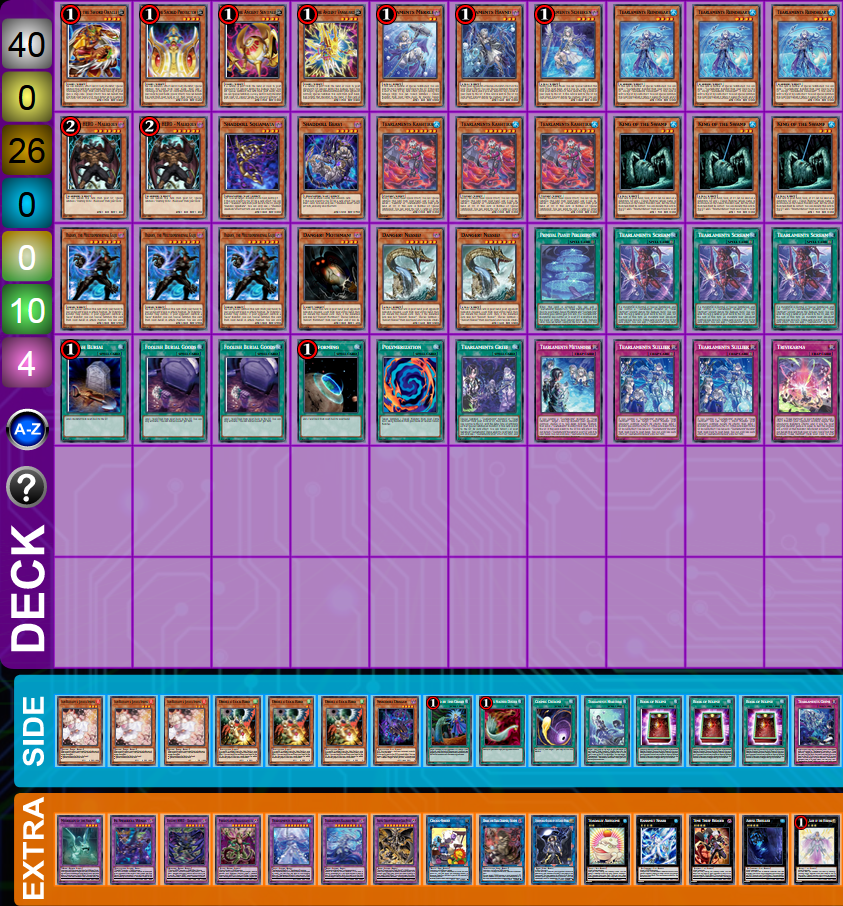
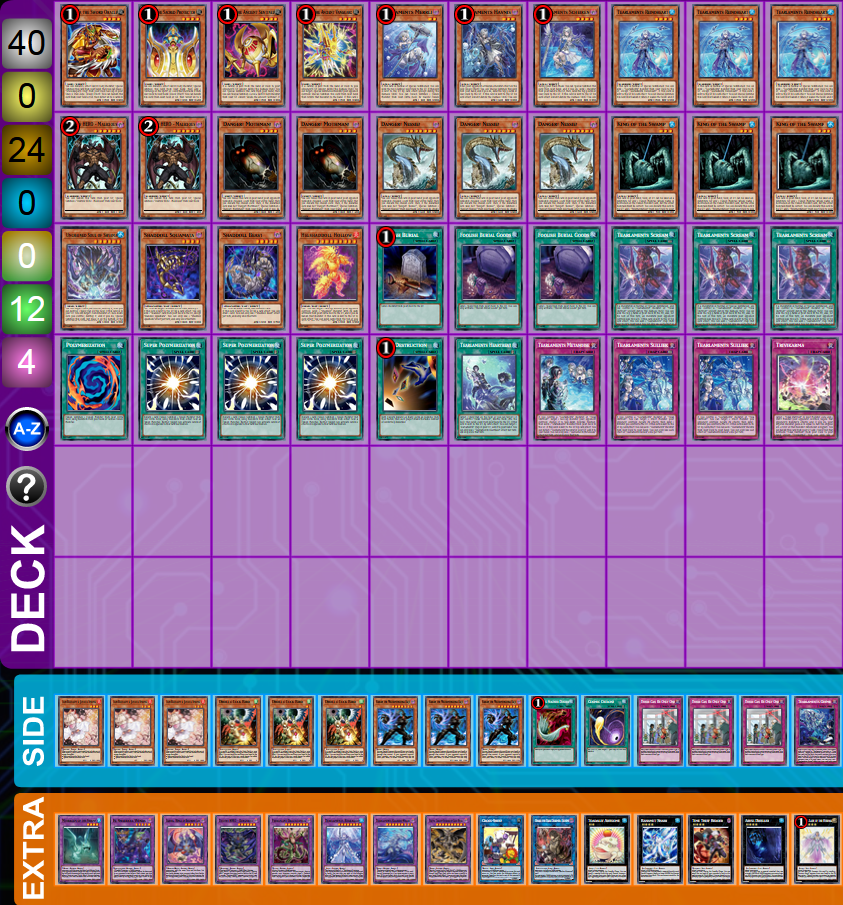
Update

diff --git a/README.md b/README.md
@@ -2,23 +2,19 @@
 
 **This guide is for TCG only.**
 
-**Last update:** 2023-10-16 (after Dortmund YCS).
-
-> Many people are starting cutting the King of the Swamp package: Rullkallos, Grapha, Chimera, Poly and 3x KotS. I think it is ok because it is a little big bricky. You might consider cutting it to, but be careful of Nibiru now!
+**Last update:** 2023-10-25 (post AGOV).
 
 - [Why play Tearlaments?](#why-play-tearlaments)
 - [Tearlaments core cards breackdown](#tearlaments-core-cards-breakdown)
 - Popular versions
-  - [Hero](#hero-package)
-  - [Toad](#toad-package)
-  - [Winda](#winda-package)
-  - [Shaddoll](#shaddoll-deck)
-  - [Revolution](#revolution-deck)
-  - [Kashtira](#kashtira-package)
+  - [King of the Swamp](#king-of-the-swamp-version)
+  - [Destiny Heroes - Beatrice](#destiny-hero-version)
+  - [Horus](#horus)
+  - [Shaddoll](#shaddoll-version)
+  - [Revolution](#revolution-version)
 - Other versions
   - [Budget](#budget-deck)
-  - [Horus](#ocg-horus)
-  - [Diabellestarr](#ocg-synchron-diabellestarr)
+  - [Kashtira](#kashtira-version)
   - Less popular versions
     - [Lunalight](#lunalight-deck)
     - [P.U.N.K.](#punk-deck)
@@ -68,16 +64,16 @@ Don't forget that all the girls are once per turn. So, maximum 3 fusions each tu
 
 | Quantity | Card | Effect | Comment |
 | --- | --- | --- | --- |
-| 1 | ![Tearlaments Merrli](cards/merrli.jpg) | If this card is Normal or Special Summoned: You can send the top 3 cards of your Deck to the GY. If this card is sent to the GY by card effect (except during the Damage Step): You can Fusion Summon 1 Fusion Monster from your Extra Deck, by placing Fusion Materials mentioned on it from your hand, field, and/or GY, including this card from your GY, on the bottom of the Deck in any order. You can only use each effect of "Tearlaments Merrli" once per turn. | Merrli is an okay Normal Summon that will mill you three cards. She is also a Level 2 monster, so you can pitch her with Spright Sprind. If you are asking how to make Sprind without using her, it's using a Link 2 or even Diviner: `2 monsters, including a Level/Link 2 monster.` |
+| 1 | ![Tearlaments Merrli](cards/merrli.jpg) | If this card is Normal or Special Summoned: You can send the top 3 cards of your Deck to the GY. If this card is sent to the GY by card effect (except during the Damage Step): You can Fusion Summon 1 Fusion Monster from your Extra Deck, by placing Fusion Materials mentioned on it from your hand, field, and/or GY, including this card from your GY, on the bottom of the Deck in any order. You can only use each effect of "Tearlaments Merrli" once per turn. | Merrli is an okay Normal Summon that will mill you three cards. She is also a Level 2 monster, so you can pitch her with Spright Sprind (you make Sprind with a Link-2). |
 | 1 | ![Tearlaments Havnis](cards/havnis.jpg) | When your opponent activates a monster effect on the field (Quick Effect): You can Special Summon this card from your hand, and if you do, send the top 3 cards of your Deck to the GY. If this card is sent to the GY by card effect (except during the Damage Step): You can Fusion Summon 1 Fusion Monster from your Extra Deck, by placing Fusion Materials mentioned on it from your hand, field, and/or GY, including this card from your GY, on the bottom of the Deck in any order. You can only use each effect of "Tearlaments Havnis" once per turn. | A great Hand Trap that allows turn 0 plays and mill 3. Also, your opponent can't stop the mill once the effect has resolved; the Summon and the mill trigger on the same effect. |
-| 1 | ![Tearlaments Scheiren](cards/scheiren.jpg) | During your Main Phase: You can Special Summon this card from your hand, and if you do, send 1 monster from your hand to the GY, then, send the top 3 cards of your Deck to the GY. If this card is sent to the GY by card effect (except during the Damage Step): You can Fusion Summon 1 Fusion Monster from your Extra Deck, by placing Fusion Materials mentioned on it from your hand, field, and/or GY, including this card from your GY, on the bottom of the Deck in any order. You can only use each effect of "Tearlaments Scheiren" once per turn. | The best of the sisters. She will not only mill 3 but also send another monster in your hand by effect, so it will activate it's effects when send to the GY. You can also pitch a brick like Malicious or a Shuffler. Finally, your opponent can't stop the mill once the effect has resolved; the Summon and the mill trigger on the same effect.<br /><br />One interesting play that you can do with Scheiren and TKash if you don't have any other monsters in hand is to activate the effect of Scheiren (*cl1*) and then TKash (*cl2*). First you will banish something to Summon TKash. Then, Scheiren checks if you have a monster on activation (so it was ok when you activated it, you had TKash), but now, since you have no monsters in hand, Scheiren will just Summon and will not mill since you can't discard any monster. This interaction is due to the **then** in this sentence: `Special Summon this card from your hand, and if you do, send 1 monster from your hand to the GY, then, send the top 3 cards of your Deck to the GY` |
+| 1 | ![Tearlaments Scheiren](cards/scheiren.jpg) | During your Main Phase: You can Special Summon this card from your hand, and if you do, send 1 monster from your hand to the GY, then, send the top 3 cards of your Deck to the GY. If this card is sent to the GY by card effect (except during the Damage Step): You can Fusion Summon 1 Fusion Monster from your Extra Deck, by placing Fusion Materials mentioned on it from your hand, field, and/or GY, including this card from your GY, on the bottom of the Deck in any order. You can only use each effect of "Tearlaments Scheiren" once per turn. | The best of the sisters. She will not only mill 3 but also send another monster in your hand by effect, so it will activate it's effects when send to the GY. You can also pitch a brick like Malicious, Shyama, a Shuffler... Finally, your opponent can't stop the mill once the effect has resolved; the Summon and the mill trigger on the same effect.<br /><br />One interesting play that you can do with Scheiren and TKash if you don't have any other monsters in hand is to activate the effect of Scheiren (*cl1*) and then TKash (*cl2*). First you will banish something to Summon TKash. Then, Scheiren checks if you have a monster on activation (so it was ok when you activated it, you had TKash), but now, since you have no monsters in hand, Scheiren will just Summon and will not mill since you can't discard any monster. This interaction is due to the **then** in this sentence: `Special Summon this card from your hand, and if you do, send 1 monster from your hand to the GY, then, send the top 3 cards of your Deck to the GY` |
 
 ### The other Tear monsters
 
 | Quantity | Card | Effect | Comment |
 | --- | --- | --- | --- |
-| 2-3 | ![Tearlaments Reinoheart](cards/reino.jpg) | If this card is Normal or Special Summoned: You can send 1 "Tearlaments" monster from your Deck to the GY, except "Tearlaments Reinoheart". If this card is sent to the GY by card effect: You can Special Summon this card (but banish it when it leaves the field), and if you do, send 1 "Tearlaments" monster from your hand to the GY. You can only use each effect of "Tearlaments Reinoheart" once per turn. | A great Normal Summon that can pitch a girl or for TKash if you have nothing else to send. He can revive when he's milled (and be banished after), this lines comes up a lot when you are trying to make Rank 4 plays.<br /><br />**Free Reino revive without discarding:** Reino only checks if you have Tear cards to discard on activation. If on resolution you don't have any Tear card to discard, the effect will still resolve. So, for example, you mill Reino, you only have a TKash as your only Tearlaments card in hand. You can *cl1* Reino, *cl2* TKash. TKash will be Summoned first, then Reino. If you dont have any other Tearlaments cards in hand, you will not need to discard anything because of Reino. He only checks if you have something to discard on activation. Be careful in the case you only have TKash in hand, and you mill for example Reino and Sulliek. If you do *cl1* Reino, *cl2* Sulliek and *cl3* TKash. You will need to discard the card searched by Sulliek because when Reino arrives on the field you have a Tear card to discard.<br /><br />**Avoid Reino banish:** if you use Reino effect to revive, he will Normally be banished when he leaves the battlefield: `If this card is sent to the GY by card effect: You can Special Summon this card (but banish it when it leaves the field).` But, if you use him for a Rank 4 play, he will not be banished. |
-| 3 | ![Tearlaments Kashtira](cards/tkash.jpg) | During the Main Phase (Quick Effect): You can Special Summon this card from your hand, and if you do, banish 1 "Kashtira" or "Tearlaments" card from your hand or GY. If this card is Normal or Special Summoned: You can send the top 3 cards of either player's Deck to the GY. If this card is sent to the GY by card effect: You can send the top 2 cards of your Deck to the GY. You can only use each effect of "Tearlaments Kashtira" once per turn. | Havnis 2.0. TKash allows turn 0 plays and is great to give consistency to this deck: you will mill on Summon and when sent to GY. It is also searchable with Fenrir. The only problem is that is not an Aqua nor a DARK monster.<br /><br />Always banish a Trap as soon as possible with TKash if you are playing Grief: if you banish a Trap with TKash and you mill Grief, that Trap will return to your hand: `If this card is sent to the GY by card effect: You can target 1 of your banished "Tearlaments" Traps; add it to your hand.`<br /><br />Please read TKash and don't give information to your opponent for free. TKash banishes a card if it is Summoned. You don't need to banish when you activate its effect in your hand; so don't give information for free.<br /><br />If you expect your opponent is playing Aussa the Earth Charmer, Immovable, banish Fenrir with TKash; you don't want to give your opponent a free Fenrir. |
+| 2-3 | ![Tearlaments Reinoheart](cards/reino.jpg) | If this card is Normal or Special Summoned: You can send 1 "Tearlaments" monster from your Deck to the GY, except "Tearlaments Reinoheart". If this card is sent to the GY by card effect: You can Special Summon this card (but banish it when it leaves the field), and if you do, send 1 "Tearlaments" monster from your hand to the GY. You can only use each effect of "Tearlaments Reinoheart" once per turn. | A great Normal Summon that can pitch a girl or for TKash if you have nothing else to send. He can revive himself when he's milled (and be banished after), this lines comes up a lot when you are trying to make Rank 4 plays.<br /><br />**Free Reino revive without discarding:** Reino only checks if you have Tear cards to discard on activation. If on resolution you don't have any Tear card to discard, the effect will still resolve. So, for example, you mill Reino, you only have a TKash as your only Tearlaments card in hand. You can *cl1* Reino, *cl2* TKash. TKash will be Summoned first, then Reino. If you dont have any other Tearlaments cards in hand, you will not need to discard anything because of Reino. He only checks if you have something to discard on activation. Be careful in the case you only have TKash in hand, and you mill for example Reino and Sulliek. If you do *cl1* Reino, *cl2* Sulliek and *cl3* TKash. You will need to discard the card searched by Sulliek because when Reino arrives on the field you have a Tear card to discard.<br /><br />**Avoid Reino banish:** if you use Reino effect to revive, he will Normally be banished when he leaves the battlefield: `If this card is sent to the GY by card effect: You can Special Summon this card (but banish it when it leaves the field).` But, if you use him for a Rank 4 play, he will not be banished. |
+| 3 | ![Tearlaments Kashtira](cards/tkash.jpg) | During the Main Phase (Quick Effect): You can Special Summon this card from your hand, and if you do, banish 1 "Kashtira" or "Tearlaments" card from your hand or GY. If this card is Normal or Special Summoned: You can send the top 3 cards of either player's Deck to the GY. If this card is sent to the GY by card effect: You can send the top 2 cards of your Deck to the GY. You can only use each effect of "Tearlaments Kashtira" once per turn. | Havnis 2.0. TKash allows turn 0 plays and is great to give consistency to this deck: you will mill on Summon and when sent to GY. It is also searchable with Fenrir. The only problem is that is not an Aqua nor a DARK monster.<br /><br />Always banish a Trap as soon as possible with TKash if you are playing Grief: if you banish a Trap with TKash and you mill Grief, that Trap will return to your hand: `If this card is sent to the GY by card effect: You can target 1 of your banished "Tearlaments" Traps; add it to your hand.` But be careful if you are playing Heartbeat which returns a Trap from the GY to the hand!<br /><br />Please read TKash and don't give information to your opponent for free. TKash banishes a card if it is Summoned. You don't need to banish when you activate its effect in your hand; so don't give information for free.<br /><br />If you expect your opponent is playing Aussa the Earth Charmer, Immovable, banish Fenrir with TKash; you don't want to give your opponent a free Fenrir. |
 
 #### Reino or Diviner? Which one to Summon?
 
@@ -116,8 +112,28 @@ In general, in this situation, I think that if you can play without that Reino, 
 | 1 | ![Mudragon of the Swamp](cards/mudragon.jpg) | 2 monsters with the same Attribute but different Types. Your opponent cannot target this card, or monsters on the field with the same Attribute as this card, with card effects. Once per turn (Quick Effect): You can declare 1 Attribute; this card becomes that Attribute until the end of this turn. | Mostly a Super Poly target, but can also help to protect your DARK monsters or even make Toad with Reino. |
 | 0-1 | ![Garura, Wings of Resonant Life](cards/garura.jpg) | 2 monsters with the same Type and Attribute, but different names. Any battle damage your opponent takes from battles involving this card is doubled. If this card is sent to the GY: You can draw 1 card. You can only use this effect of "Garura, Wings of Resonant Life" once per turn. | This is mostly a Super Poly target. Can also help in very niche circumstance to make Beatrice. Don't forget that when it attacks the opponent it has doubled attack (Perlereino, Wraitsoth and Cross-Sheep modify it). |
 | 1 | ![Predaplant Dragostapelia](cards/dragostapelia.jpg) | 1 Fusion Monster + 1 DARK monster. Once per turn (Quick Effect): You can target 1 face-up monster your opponent controls; place 1 Predator Counter on it, and if it is Level 2 or higher, it becomes Level 1 as long as it has a Predator Counter. Negate the activated effects of your opponent's monsters that have Predator Counters. | Another Super Poly target, but can also be made to kill Xyz or Spright decks by changing the monster's Level. Don't forget that when Dragostapelia will leave the field the monster will not be negated anymore, but it's Level will still be 1. |
+| 1 | ![S:P Little Knight](cards/sp.jpg) | 2 Effect Monsters. If this card is Link Summoned using a Fusion, Synchro, Xyz, or Link Monster as material: You can target 1 card on the field or in either GY; banish it, also your monsters cannot attack directly this turn. When your opponent activates a card or effect (Quick Effect): You can target 2 face-up monsters on the field, including a monster you control; banish both until the End Phase. You can only use each effect of "S:P Little Knight" once per turn. | The new best generic Link 2. This is a crazy card that can protect your own monsters from target negation/destruction and can reset Baronne de Fleur's negate. It is not mandatory, but certainly very very strong in all the decks. |
 | 1 | ![Time Thief Redoer](cards/redoer.jpg) | 2 Level 4 monsters. Once per turn, during the Standby Phase: You can attach the top card of your opponent's Deck to this card as material. (Quick Effect): You can detach up to 3 different types of materials from this card, then apply the following effect(s) depending on what was detached. ● Monster: Banish this card until the End Phase. ● Spell: Draw 1 card. ● Trap: Place 1 face-up card your opponent controls on the top of the Deck. You can only use this effect of "Time Thief Redoer" once per turn. | Your best Rank 4 monster that will trigger Shreiren fusion (because it sends as an effect). You can steal important combo pieces from your opponent's deck, and can trigger Scheiren during your opponent's turn.<br /><br />**Don't steal your opponent's cards. Always check before pickup up your cards.** |
+
+#### Baronne package
+
+Normally, all the decks run at least one omni negate monster. Barone could be a good option.
+
+| Quantity | Card | Effect | Comment |
+| --- | --- | --- | --- |
+| 2-3 | ![Diviner of the Herald](cards/diviner.jpg) | If this card is Normal or Special Summoned: You can send 1 Fairy monster from your Deck or Extra Deck to the GY, and if you do, increase this card's Level by that monster's Level, until the end of this turn. If this card is Tributed: You can Special Summon 1 Level 2 or lower Fairy monster from your hand or Deck, except "Diviner of the Herald". You can only use each effect of "Diviner of the Herald" once per turn. | Good Normal Summon that can send a Miller and become Level 6. You can then make Baronne with a Level 4 or Beatrice with a Level 6. If it gets negated, you can use it to make Sprind and then send Merrli.<br /><br />You can send another Diviner to make Rank 4 plays.<br /><br />The tribute effect would only matter if you are playing Herald of Orange Light. |
+| 0-1 | ![Destrudo the Lost Dragon's Frisson](cards/destrudo.jpg) | If this card is in your hand or GY: You can pay half your LP, then target 1 Level 6 or lower monster you control; Special Summon this card, and if you do, this card's Level is reduced by the Level of the targeted monster, also place this card on the bottom of the Deck if it leaves the field. You can only use this effect of "Destrudo the Lost Dragon's Frisson" once per turn. | The best card to lose on time. Also a great tuner that can be revived from the GY (or can even make Mudragon). You can see the combos [in the combo section](#destrudo-in-gy-combo). |
 | 1 | ![Baronne de Fleur](cards/baronne.jpg) | 10 stars. 1 Tuner + 1+ non-Tuner monsters. Once per turn: You can target 1 card on the field; destroy it. Once while face-up on the field, when a card or effect is activated (Quick Effect): You can negate the activation, and if you do, destroy that card. You can only use the previous effect of "Baronne de Fleur" once per turn. Once per turn, during the Standby Phase: You can target 1 Level 9 or lower monster in your GY; return this card to the Extra Deck, and if you do, Special Summon that monster. | Incredible omni-negate that can pop your own cards to extend your plays. Also, once you have used your omni, you can revive any important monster in your GY (except Grapha) to continue your plays. |
+
+#### Toad package
+
+Normally, all the decks run at least one omni negate monster. Toad could be a good option. For this package you need to play some Dark monsters to access more easily Mudragon. So, they could be for example the Destiny Hero package, some Bystials, Radian, some Shaddolls, etc.
+
+| Quantity | Card | Effect | Comment |
+| --- | --- | --- | --- |
+| 0-1 | ![Sword Serpent](cards/serpent.jpg) | If this card is sent to the GY by a card effect: You can Special Summon this card, but banish it when it leaves the field. You can only use this effect of "Night Sword Serpent" once per turn. | Great extender to go for Toad or Link plays. Could be a brick, that's why many people don't run it. |
+| 1 | ![Bahamut Shark](cards/bahamut.jpg) | 2 Level 4 WATER monsters. Once per turn: You can detach 1 material from this card; Special Summon 1 Rank 3 or lower WATER Xyz Monster from your Extra Deck. This card cannot attack for the rest of this turn. | Make it with two Reinos or Reino and Mudragon. Note: you can't attack then activate its effect. |
+| 1 | ![Toadly Awesome](cards/toad.jpg) | 2 Level 2 Aqua monsters. Once per turn, during the Standby Phase: You can detach 1 material from this card; Special Summon 1 "Frog" monster from your Deck. Once per turn, when your opponent activates a Spell/Trap Card, or monster effect (Quick Effect): You can send 1 Aqua monster from your hand or face-up field to the GY; negate the activation, and if you do, destroy that card, then you can Set it to your field. If this card is sent to the GY: You can target 1 WATER monster in your GY; add it to your hand. | Great omni. It's an Aqua so it can be used to make Kaleido. Also, when it dies, it will recycle TKash or Reino. Finally, since Bahamuth is not a threat, if it's still alive on your turn and you shuffled back Toad, you can make it again. |
 
 #### Perlereino/Baronne pop your own cards
 
@@ -127,7 +143,7 @@ The easiest card to pop is Kaleido-Heart, because he will then return and mill a
 
 Be careful if you just summoned Kaleido under Cross-Sheep and want to pop it. You **need** to chain Cross-Sheep on *cl2* and Perlereino on *cl1* because if you don't, Kaleido will not be there when Cross-Sheep will check if there is a monster under its arrow.
 
-### The rest
+### Ishizus and Trivikarma
 
 | Quantity | Card | Effect | Comment |
 | --- | --- | --- | --- |
@@ -153,7 +169,19 @@ Wait until your names are in the bottom to shuffle your deck. You have many ways
 
 Let's say for example that you want to shuffle back your Reino in your GY (and nothing else), and your opponent has nothing good in his GY. You can always shuffle back useless cards to hurt the consistency of their deck.
 
-### King of the Swamp package
+### Core
+
+These are the core cards for the deck. Now you will need to chose the omni in the extra deck (Toad, Baronne or both) and also a main version (explained in the next section).
+
+![Core cards](decks/core.png)
+
+## Main versions and packages
+
+For most of the versions here the sideboard is pretty generic. It can be modified depending on the meta.
+
+### King of the Swamp version
+
+This was the old version played during the Kashtira format. It is still very good but some people started cutting the King because it can brick sometimes.
 
 | Quantity | Card | Effect | Comment |
 | --- | --- | --- | --- |
@@ -173,21 +201,9 @@ Normally, Grapha is better: it is bigger and can negate more things. It also tri
 - If you know Rulkallos will be enough and you will gain more advantage of its revive.
 - If you need to protect your other Aqua monsters (specially Toad).
 
-### Core
+### Destiny Hero version
 
-This would be the core cards. You can easily add S:P Little Night and Dharc as mandatory cards too.
-
-![Core cards](decks/core.png)
-
-## Versions
-
-For most of the versions here the sideboard is pretty generic. It can be modified depending on the meta.
-
-### Hero package
-
-Gives access to Beatrice to foolish any card you want.
-
-This seems to be the best package to always consider.
+This is the new version players started playing when Unchained started toping. It gives access to Beatrice to foolish any card you want.
 
 | Quantity | Card | Effect | Comment |
 | --- | --- | --- | --- |
@@ -200,19 +216,9 @@ This seems to be the best package to always consider.
 | 1 | ![Beatrice, Lady of the Eternal](cards/beatrice.jpg) | 2 Level 6 monsters. ~~You can also Xyz Summon this card by sending 1 "Burning Abyss" monster from your hand to the GY, then using 1 "Dante" monster you control as material. (Transfer its materials to this card.) If Summoned this way, the following effect cannot be activated this turn.~~ Once per turn (Quick Effect): You can detach 1 material from this card; send 1 card from your Deck to the GY. If this card in your possession is destroyed by your opponent's card and sent to your GY: You can Special Summon 1 "Burning Abyss" monster from your Extra Deck, ignoring its Summoning conditions. | You need two Level 6 to make her. Normally you will use Malicious and Dangerous, but know that Garura and Diviner are also Level 6. Her main purpose is to pitch any card that will help you to gain advantage. If you have nothing to pitch, you can keep her materials for Spright Sprind. Also, always remove Dangerous first, it will give you a fusion in your GY in case you need to make Dragostapelia. |
 | 0-1 | ![Wollow, Founder of the Drudge Dragons](cards/wollow.jpg) | 2+ Level 6 monsters. Monsters you control gain 100 ATK/DEF for each card in your opponent's GY. (Quick Effect): You can target 1 card in your opponent's GY and detach 1 or 2 materials from this card, then activate the appropriate effect;<br />● 1: Return it to the Deck.<br />● 2: If the target is a monster, Special Summon it face-up, or in face-down Defense Position, to your field. If it is not, Set it on your field.<br />You can only use this effect of "Wollow, Founder of the Drudge Dragons" once per turn. | Another possible Rank 6 you can consider. |
 
-### Toad package
-
-Gives access to another omni negate.
-
-| Quantity | Card | Effect | Comment |
-| --- | --- | --- | --- |
-| 3 | ![Radian, the Multidimensional Kaiju](cards/radian.jpg) | You can Special Summon this card (from your hand) to your opponent's field in Attack Position, by Tributing 1 monster they control. If your opponent controls a "Kaiju" monster, you can Special Summon this card (from your hand) in Attack Position. You can only control 1 "Kaiju" monster. ~~Once per turn: You can remove 2 Kaiju Counters from anywhere on the field; Special Summon 1 "Radian Token" (Fiend/DARK/Level 7/ATK 2800/DEF 0), but it cannot be used as Synchro Material.~~ | You need more DARK monsters to make Mudragon of the Swamp with your girls, and then make Bahamuth Shark with it and Reino. Don't play Gameciel unless you want more Kaijus, but I don't think that it's needed. |
-| 1 | ![Bahamut Shark](cards/bahamut.jpg) | 2 Level 4 WATER monsters. Once per turn: You can detach 1 material from this card; Special Summon 1 Rank 3 or lower WATER Xyz Monster from your Extra Deck. This card cannot attack for the rest of this turn. | Make it with two Reinos or Reino and Mudragon. Note: you can't attack then activate its effect. |
-| 1 | ![Toadly Awesome](cards/toad.jpg) | 2 Level 2 Aqua monsters. Once per turn, during the Standby Phase: You can detach 1 material from this card; Special Summon 1 "Frog" monster from your Deck. Once per turn, when your opponent activates a Spell/Trap Card, or monster effect (Quick Effect): You can send 1 Aqua monster from your hand or face-up field to the GY; negate the activation, and if you do, destroy that card, then you can Set it to your field. If this card is sent to the GY: You can target 1 WATER monster in your GY; add it to your hand. | Great omni. It's an Aqua so it can be used to make Kaleido. Also, when it dies, it will recycle TKash or Reino. Finally, since Bahamuth is not a threat, if it's still alive on your turn and you shuffled back Toad, you can make it again. |
-
 ### Winda package
 
-Gives access to a strong floodgate that stops Special Summons.
+You can add Winda to almost any version you want. You normally want Shaddoll Beast, and if you want another one like Squamata or Hollow. It gives access to a strong floodgate that stops Special Summons.
 
 | Quantity | Card | Effect | Comment |
 | --- | --- | --- | --- |
@@ -223,12 +229,13 @@ Gives access to a strong floodgate that stops Special Summons.
 
 ### Danger package
 
-Gamble more to gain more consistency to the deck. Allow more Rank 4 and Rank 7 plays. Are also Toad targets.
+Gamble more to gain more consistency to the deck. Allow more Rank 4 and Rank 7 plays. Also, Nessie is an Aqua/Dark so it has many synergies with the girls.
 
 | Quantity | Card | Effect | Comment |
 | --- | --- | --- | --- |
 | 2-3 | ![Danger Nessie](cards/nessie.jpg) | You can reveal this card in your hand; your opponent randomly chooses 1 card from your entire hand, then you discard the chosen card. Then, if the discarded card was not "Danger! Nessie!", Special Summon 1 "Danger! Nessie!" from your hand, and if you do, draw 1 card. If this card is discarded: You can add 1 "Danger!" card from your Deck to your hand, except "Danger! Nessie!". You can only use this effect of "Danger! Nessie!" once per turn. | Great card to draw or to Summon Mothman from deck. It's also a DARK Aqua Level 7: so you can make Garura and Rank 7 plays with it. |
 | 1-2 | ![Danger Mothman](cards/mothman.jpg) | You can reveal this card in your hand; your opponent randomly chooses 1 card from your entire hand, then you discard the chosen card. Then, if the discarded card was not "Danger! Mothman!", Special Summon 1 "Danger! Mothman!" from your hand, and if you do, draw 1 card. If this card is discarded: You can have both players draw 1 card, then both players discard 1 card. You can only use this effect of "Danger! Mothman!" once per turn. | It's a DARK Level 4 and can maybe help you getting rid of a brick in hand. It can also get you into Rank 4 plays and Mudragon. |
+| 0 | ![Gokipole](cards/gokipole.jpg) | If this card is sent to the GY: You can add 1 Level 4 Insect monster from your Deck to your hand, then, if you added a Normal Monster, you can Special Summon it, then you can destroy 1 monster on the field with ATK greater than or equal to that Special Summoned monster's. You can only use this effect of "Gokipole" once per turn. | Some people in the OCG played this with Mothman, but I am not sur of the utility in the TCG. I will still mention it. |
 
 #### Nessie or Mothman first?
 
@@ -240,30 +247,42 @@ Some ways to think it, but it always depends on your build and your board:
 - If you have another Mothman in the deck, and you have a good card to discard in your hand (like Trivikarma, Malicious, a Shuffler...) you can use Mothman first, because if you hit itself you can always discard that card. But, if you hit Nessie, you will only have a Level 4 in play, a dead card in hand and a draw.
 - Do you need a bigger body? If so, you should do Nessie first.
 
-#### Mix the packages
+#### Decklists
 
 All of those packages complement well each other and you can mix them. For example:
 
 - Malicious/Shaddoll/any Danger and a Tear girl can make Mudragon to have access to Bahamuth/Toad.
 - Beatrice can pitch a Shaddoll to have access to Winda. See the combo in the [combo section](#example-of-endboard-with-beatrice-and-winda).
 
-Here are few examples:
+#### Here are some examples:
 
-##### No King of the Swamp
+##### Beatrice + Winda + Baronne
 
 ![Destiny 0 deck](decks/no-king-no-toad.png)
 
+##### Beatrice + Winda + Baronne + Toad
+
 ![Destiny 1 deck](decks/no-king-toad.png)
 
-##### With King of the Swamp
+##### King of the Swamp + Winda + Baronne + Toad
 
 ![Destiny 2 deck](decks/winda-toad.png)
 
+##### King of the Swamp + Winda + Baronne
+
 ![Destiny 3 deck](decks/dangers.png)
+
+##### King of the Swamp + Beatrice + Winda + Baronne + Toad
 
 ![Destiny 4 deck](decks/winda-hero-toad.png)
 
-### Shaddoll deck
+### Horus
+
+![Horus deck](decks/horus-no-king.png)
+
+![Horus deck](decks/horus.png)
+
+### Shaddoll version
 
 The objective of this version is to always garantee a Winda. It takes lots of places on your extra deck, but its pretty consistent. You will play the Winda package + some extra cards listed below. See the combo in the [combo section](#shaddoll-combo).
 
@@ -285,7 +304,7 @@ You can also play a small Shaddoll package with only Shekinaga and 3 Shaddoll Fu
 
 ![Shaddoll Toad deck](decks/shaddoll-toad.png)
 
-### Revolution deck
+### Revolution version
 
 This version can almost always guarantee a Field Spell (with Ancient Fairy then Amritara). If you already have enough gas, instead of Amritara you can make Crystal Wing Synchro Dragon to have another negate on board.
 
@@ -306,6 +325,7 @@ You can build it in many ways. Here are some examples:
 #### Revolution
 
 ![Revolution](decks/revolution.png)
+
 #### Revolution Toad
 
 ![Revolution Toad deck](decks/revolution-toad.png)
@@ -314,7 +334,7 @@ You can build it in many ways. Here are some examples:
 
 ![Revolution Shaddoll deck](decks/revolution-shaddoll.png)
 
-### Kashtira package
+### Kashtira version
 
 Other cards like Reiseheart or Theosis make the deck way more explosive, but the mills are very bad. You have to make some choices during your deckbuild. This is an example of the proportions you can run:
 
@@ -334,35 +354,19 @@ Other cards like Reiseheart or Theosis make the deck way more explosive, but the
 
 ### Budget deck
 
-For this version I have cut the big cards: Field Spells, Fenrir, Guardian Chimera, Garura, Super Poly. Tearlaments Kashtira is quite expensive too but it's mandatory. I've also added one Perlereino because it's super strong, but you can replace it and Terraforming with more Dangers for example.
+For this version I have cut the big cards: Tearlaments Kashtira, Field Spells, Fenrir, Diviner and Guardian Chimera.
+
+The deck will not be great because you are missing your field spells and TKash but this is the idea.
 
 ![Budget deck](decks/budget.png)
-
-### Horus
-
-The Horus support will be good for this deck. It allows you to play The Zombie Vampire, which is a crazy Rank 8 because of this effect:
-
-> You can detach 1 material from this card; each player sends the top 4 cards from their Deck to the GY, then if any monsters were sent to either GY by this effect, you can Special Summon 1 of those monsters to your field.
-
-The package is quite small (3 DARK horus, 1 WIND, 1-2 Sarcophagus). You can play more, but it might brick. Fiendish Rhino is also a nice addition to this.
-
-The list needs to be refined, but here is an idea with and without KotS:
-
-![Horus deck](decks/horus-no-king.png)
-
-![Horus deck](decks/horus.png)
-
-### Synchron Diabellestarr
-
-This supports will give you access to more Rank 7 and Synchro plays. The package is quite small (3 spells, 1 monster, 1 jet synchron). This list needs to be refined, but here is the idea:
-
-![Diabellestarr deck](decks/revolution-diab.png)
 
 ---
 
 ### Less popular versions
 
 I will present here some other versions that can be played with Tear, but I will not add too much info about those decks. Also, they will not have their combo section unless the version becomes more popular.
+
+These versions are not up-to-date nor tested.
 
 #### Lunalight deck
 
@@ -385,6 +389,10 @@ I'll leave it to you to explore the classic P.U.N.K. combos since this is a Tear
 I've found no recent builds for a Branded-Tear deck. I managed to build this. I don't know if it's good enough, and it can clearly be refined. I'll leave it to you to explore the classic Branded. combos since this is a Tear guide. But here is an idea of the deck:
 
 ![Branded deck](decks/branded.png)
+
+I also saw a similar deck to this one finished 4-0 in a locals, I'm sharing it too. It's mostly a Branded Despia deck with a little bit of Tear.
+
+![Branded deck](decks/branded-2.png)
 
 #### Mikanko package
 
@@ -488,10 +496,6 @@ You can mix this package with the Kashtira package very easily. See combo in the
 | 1 | ![Visas Starfrost](cards/visas.jpg) | If this card is in your hand: You can target 1 monster you control with a different Type and Attribute than this card; destroy that monster, and if you do, Special Summon this card. You can only use this effect of "Visas Starfrost" once per turn. When this card destroys an opponent's monster by battle: You can make this card gain ATK equal to half the original ATK or DEF of that monster (whichever is higher, your choice if tied). | This will also give your Heartbeat and Trivikarma an extra effect. Don't forget to trigger the GY effect of the monster you destroyed. |
 | 1 | ![Vicious Astraloud](cards/vicious.jpg) | "Visas Starfrost" + ~~1 monster with 1500 ATK/2100 DEF~~ "Tearlaments Reinoheart". Must be Special Summoned (from your Extra Deck) by banishing the above cards from your field and/or GY. Cannot be destroyed by battle. If this card is Special Summoned: You can target 1 other monster on the field; destroy it, and if you do, this card gains ATK equal to half of that monster's original ATK or DEF (whichever is higher). | You **can't** use King of the Swamp nor Beastking of the Swamps to replace Visas Startfrost, since this is not a fusion but a contact fusion. This card is just a win-more, it's great to have on field. |
 
-### The spice list
-
-![Spicy cards](decks/spice.png)
-
 ## Sideboard
 
 ### Sideboard cards in your mainboard
@@ -579,7 +583,19 @@ Little example on why Shyama is good.
 
 ## Test hands (videos)
 
-### 1. Opponent Ashes my Fenrir
+### Some explained test hands with this deck
+
+In these three replays I explain all my choices, all the reflection I had in my head, all the reasons why I did and I didn't some choices, etc.
+
+![Deck](decks/test-hand.jpg)
+
+> Note: a little mistake was made in Replays 1 and 3. In both replays I had Nessie in play and Summoned illegally a Denier to make Cross-Sheep. Just ignore that Sheep and imagine Nessie stayed alone. I am sorry for this mistake, but I do believe that it doesn't change much; all the rest of the information is useful for new players.
+
+1. <a href="https://www.duelingbook.com/replay?id=1000060-54045873" target="_blank">https://www.duelingbook.com/replay?id=1000060-54045873</a>
+1. <a href="https://www.duelingbook.com/replay?id=1000060-54046231" target="_blank">https://www.duelingbook.com/replay?id=1000060-54046231</a>
+1. <a href="https://www.duelingbook.com/replay?id=1000060-54046546" target="_blank">https://www.duelingbook.com/replay?id=1000060-54046546</a>
+
+### Opponent Ashes my Fenrir
 
 In this example, I have two choices:
 
@@ -594,15 +610,15 @@ In this example I was lucky and had Poly, so I could make Guardian Chimera and c
 
 <a href="https://www.duelingbook.com/replay?id=1000060-52665413" target="_blank">https://www.duelingbook.com/replay?id=1000060-52665413</a>
 
-### 3. Simple test hand finishing on Fenrir + Toad + follow-up
+### Simple test hand finishing on Fenrir + Toad + follow-up
 
 <a href="https://www.duelingbook.com/replay?id=1000060-52665298" target="_blank">https://www.duelingbook.com/replay?id=1000060-52665298</a>
 
-### 4. Okay board with the Synchron version
+### Okay board with the Synchron version
 
 <a href="https://www.duelingbook.com/replay?id=1000060-52665534" target="_blank">https://www.duelingbook.com/replay?id=1000060-52665534</a>
 
-### 5. No King of the Swamp list
+### No King of the Swamp list
 
 <a href="https://www.duelingbook.com/replay?id=1000060-53853274" target="_blank">https://www.duelingbook.com/replay?id=1000060-53853274</a>
 
@@ -707,12 +723,12 @@ BUT, imagine the scenario where they have Imperm too: Ash will negate Scream and
 | ![Mudora](cards/mudora.jpg) ![Keldo](cards/keldo.jpg) | (Quick Effect): You can banish this card from your field or GY, then target up to 3 cards in any GY(s), or up to 5 if "Exchange of the Spirit" is on your field or in your GY; shuffle them into the Deck. | Shuffle back the Tear names, or King of the Swamp, or the targeted cards they target with Metanoise or Heartbeat, or even Poly if they have Guardian Chimera.<br /><br />Shuffle back Kaleido-Heart or Rulkallos when they try to revive.  | Don't forget to trigger Perlereino if applicable. |
 | ![Dimensional Barrier](cards/dim-barrier.jpg) | Declare 1 monster card type (~~Ritual~~, Fusion, Synchro, Xyz, ~~or Pendulum~~); for the rest of this turn, neither player can Special Summon monsters of the declared type, also negate the effects of all monsters of that type while they are on the field. You can only activate 1 "Dimensional Barrier" per turn. | Call fusion.<br /><br />Kaleido and Rulkallos can't revive the turn you called fusion. Also, all their fusions will be negated. | Just make Redoer or Baronne. |
 | ![Soul Drain](cards/soul-drain.jpg) | Activate by paying 1000 LP. Monsters that are banished, as well as monsters in the GY, cannot activate their effects. | It's like a permanent Belle that can't be chainblocked. Be careful on time. | Wish for Fenrir or back-row hate. If you can make Baronne, or Kaleido/Chimera with Poly, this is also good. |
+| ![Called by the Grave](cards/called-by.jpg) | Target 1 monster in your opponent's GY; banish it, and if you do, until the end of the next turn, its effects are negated, as well as the activated effects and effects on the field of monsters with the same original name. |  Banish any monster in the GY that will be used for a fusion. You can also banish TKash or Reino from the GY to negate the one on field. Also, you can banish Kaleido-Heart or Rulkallos when they try to revive. |
 
 ### Cards that hurt
 
 | Card(s) | Effect | Comment (as the player playing against Tear) | Comment (as the Tear player) |
 | --- | --- | --- | --- |
-| ![Called by the Grave](cards/called-by.jpg) | Target 1 monster in your opponent's GY; banish it, and if you do, until the end of the next turn, its effects are negated, as well as the activated effects and effects on the field of monsters with the same original name. |  Banish any monster in the GY that will be used for a fusion. You can also banish TKash or Reino from the GY to negate the one on field. Also, you can banish Kaleido-Heart or Rulkallos when they try to revive. |
 | ![Ash Blossom](cards/ash.jpg) | When a card or effect is activated that includes any of these effects (Quick Effect): You can discard this card; negate that effect.<br />● Add a card from the Deck to the hand.<br />● Special Summon from the Deck.<br />● Send a card from the Deck to the GY.<br />You can only use this effect of "Ash Blossom & Joyous Spring" once per turn. | The best target would be Scheiren. The deck has so much gas that if you hit Reino, Foolish or a Planet, it might do nothing but try to do it on the first target possible to stop them right away. | You can always [chainblock](#chainblocking-ash) her. |
 | ![Ghost Belle](cards/belle.jpg) ![Skull Meister](cards/skull-meister.jpg) | When a card or effect is activated that includes any of these effects (Quick Effect): You can discard this card; negate that activation.<br />● Add a card(s) from the GY to the hand, Deck, and/or Extra Deck.<br />● Special Summon a Monster Card(s) from the GY.<br />● Banish a card(s) from the GY.<br />You can only use this effect of "Ghost Belle & Haunted Mansion" once per turn.<br /><br />When a card effect is activated in your opponent's GY (Quick Effect): You can send this card from your hand to the GY; negate that effect. | Negate any effect in GY. | You can always [chainblock](#chainblocking-belle) them. |
 | ![Nibiru](cards/nibiru.jpg) | During the Main Phase, if your opponent Normal or Special Summoned 5 or more monsters this turn (Quick Effect): You can Tribute as many face-up monsters on the field as possible, and if you do, Special Summon this card from your hand, then Special Summon 1 "Primal Being Token" (Rock/LIGHT/Level 11/ATK ?/DEF ?) to your opponent's field. (This Token's ATK/DEF become the combined original ATK/DEF of the Tributed monsters.) You can only use this effect of "Nibiru, the Primal Being" once per turn. | Try to use Nibiru before they Toad, Rullakllos, Grapha or Baronne. If they are not playing the King of the Swamp package, it will hurt even more. | Try to put quickly on play Toad, Rullakllos, Grapha or Baronne. Don't forget that the token is a Light monster. It might be relevant to make Construct or as a Super Poly target.<br /><br />**The situation where you have Reino and Scheiren:** normally you don't want to make Redoer and let your opponent Nib you to trigger Reino **and** Scheiren when they will be sent to the GY. But, if Reino was Special Summoned by his effect (it's a once per turn so it's effect was already activated. Also, if Nib kills him, he will be banished), you can make Redoer. When they will Nib you, you just need to chain Redoer. Nib will arrive, and in a new chain you can activate Scheiren. |
@@ -767,6 +783,6 @@ There are other matchup specific cards to be aware off, but this is not a topic 
 
 ## Credits
 
-Credits to ygoprodeck for the card pictures, and duelingbook for the banner, the decks, the videos and endboard pictures.
+Credits to ygoprodeck for the card pictures, and duelingbook for the banner pictures, the decks, the replays and endboard pictures.
 
 Credits to all the information I found online: mostly Youtube and in the Facebook <a href="https://www.facebook.com/groups/2774907876148837/posts/3130081543964800/" target="_blank">Tearlaments Duelists</a> group.
